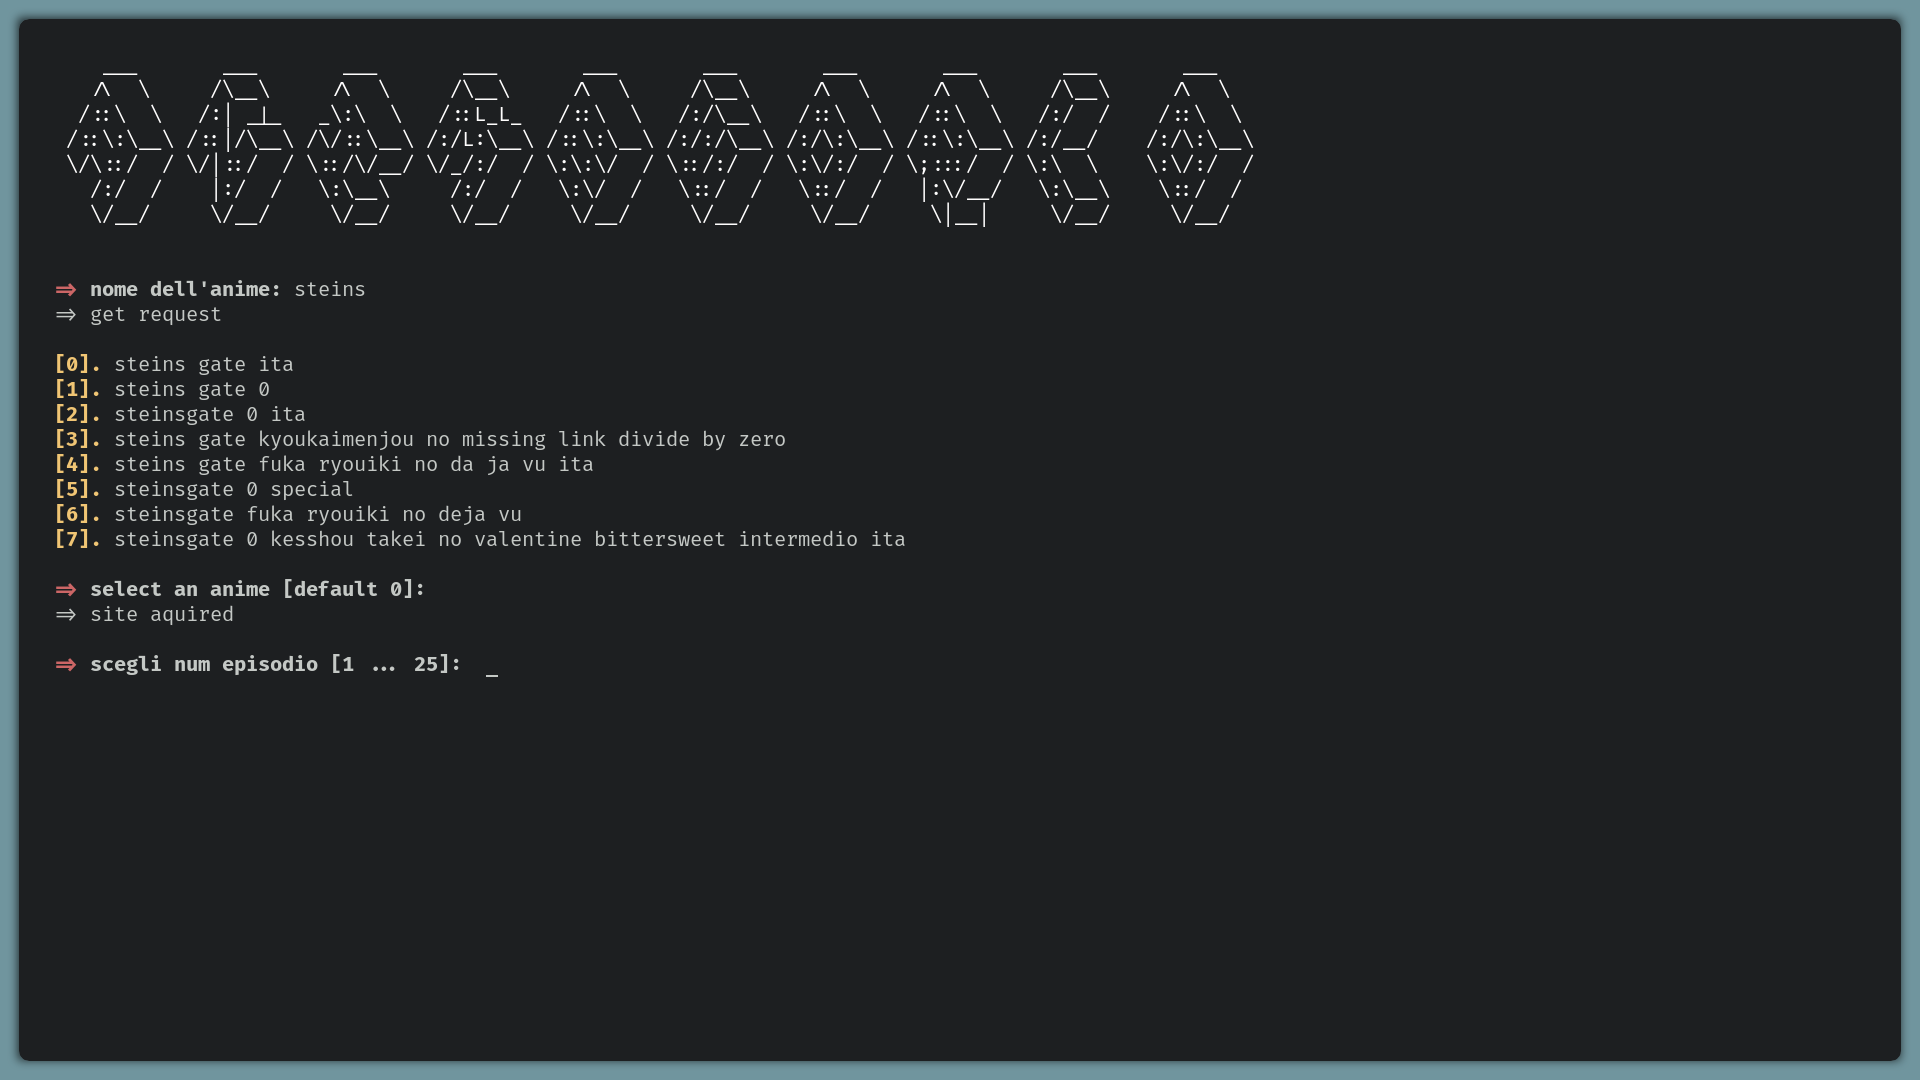
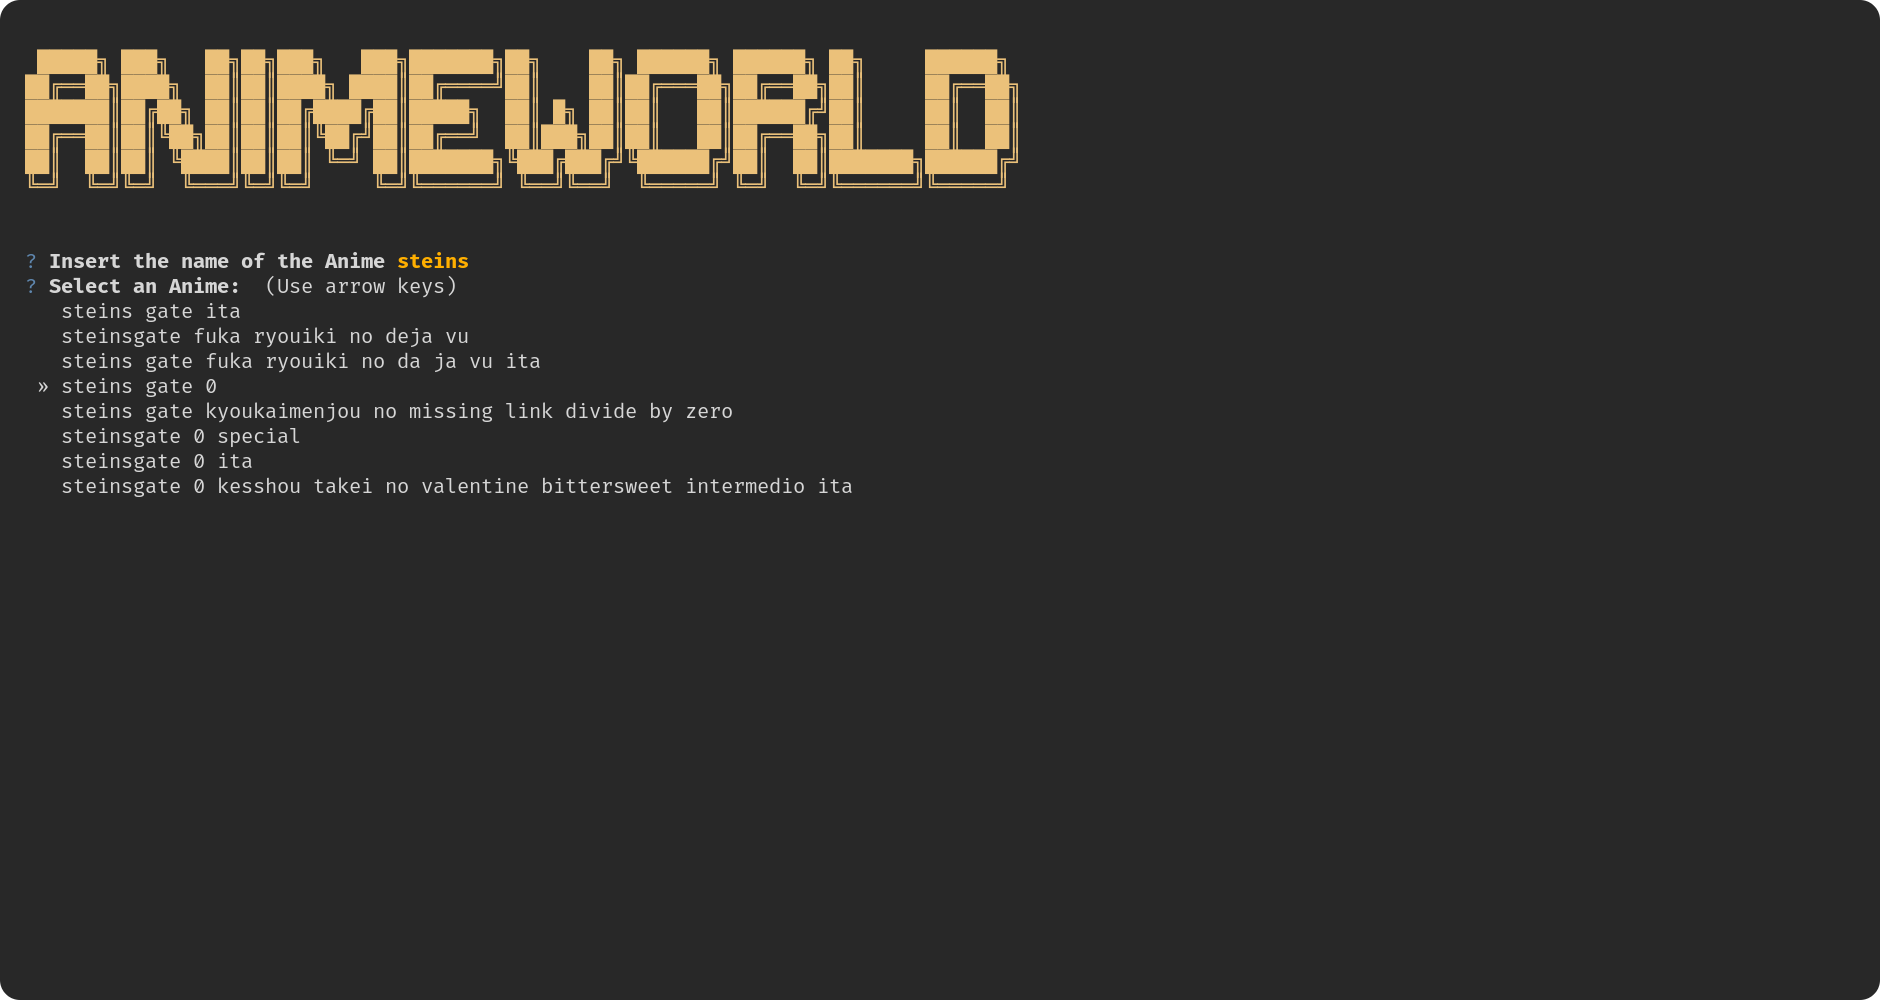
fix Readme

Changed region(s): [[0.0, 0.0, 1.0, 1.0], [0.5862, 0.124, 0.6479, 0.155], [0.216, 0.589, 0.2468, 0.62]]

diff --git a/main.py b/main.py
@@ -19,7 +19,7 @@ anime = Anime()
 @app.command()
 def search(anime_name: str):
 	"""
-	Search an Anime in Animeworld.tv
+	Search and play an Anime in Animeworld.tv
 	"""
 
 	anime_list = anime.search(anime_name)
@@ -39,7 +39,7 @@ def search(anime_name: str):
 @app.command()
 def play(url: Annotated[str, typer.Option()]):
 	"""
-	Play an Anime from Animeworld.tv with mpv
+	Play an Anime from Animeworld.tv url with mpv
 	"""
 	anime_data = anime.anime_page(url);
 	

diff --git a/README.md b/README.md
@@ -7,6 +7,7 @@
 
 
 ![](image/image.png)
+![](image/image2.png)
 
 
 
@@ -18,6 +19,8 @@ Per poter installare lo script serve installare [``mpv``](https://mpv.io/) e alt
 
 ```bash
 pip install -r requirements.txt
+chmod +x main.py
+./main.py
 ```
 
 
@@ -27,8 +30,21 @@ pip install -r requirements.txt
 
 
 ```bash
-chmod +x main.py
-./main.py
+$ ./main.py --help
+
+ Usage: main.py [OPTIONS] COMMAND [ARGS]...                                                                                 
+                                                                                                                            
+╭─ Options ───────────────────────────────────────────────────────────────────────────────────────────────╮
+│ --help                        Show this message and exit.                                               │
+╰─────────────────────────────────────────────────────────────────────────────────────────────────────────╯
+╭─ Commands ──────────────────────────────────────────────────────────────────────────────────────────────╮
+│ ascii                  Print Ascii font from font.txt                                                   │
+│ download               Download an Anime from Animeworld.tv                                             │
+│ play                   Play an Anime from Animeworld.tv url with mpv                                    │
+│ search                 Search and play an Anime in Animeworld.tv                                        │
+╰─────────────────────────────────────────────────────────────────────────────────────────────────────────╯
+
+
 ```
 
 
